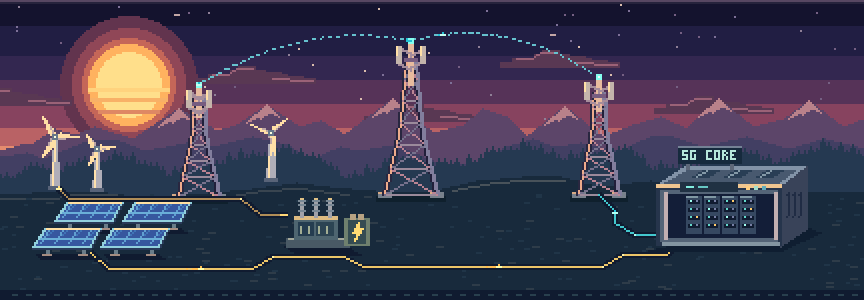
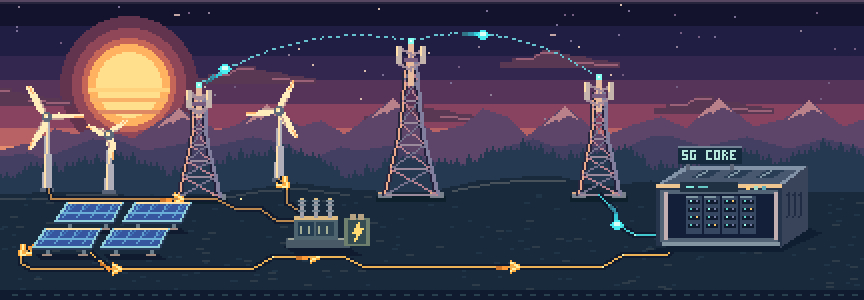
Make wind, power and 5G packet movement visible on small screens

diff --git a/docs/sw.js b/docs/sw.js
@@ -1,8 +1,8 @@
 // A fresh version is stamped by the daily deployment workflow.
-const VERSION = 'imon-world-art-v23';
+const VERSION = 'imon-world-art-v24';
 const SCOPE = self.registration.scope;
 const CACHE = VERSION + ':' + SCOPE;
-const FILES = ['scene-gallery.css','scene-gallery.js','art/scene-atlas.webp','art/destination-signs.png','art/course-valley.webp','course-world.css','data/ai-news.json','handheld.css','handheld.js','gridworks/panels.css','gridworks/console.css','lab-form-engineering.js','learning-modules.js','topic-check.js','./','index.html','style.css','studio.css','lesson-controls.js','arcade/','arcade/index.html','arcade/games.css','arcade/games.js','arcade/play.js','meshlit/','hyperl/','project-downloads.css','player-card.css','player-card.js','app.js','world.js','art/neon-coast.webp','art/waterfall-valley.webp','art/twilight-lake.webp','art/neon-forest.webp','weather.js','hail.js','weather-icons.js','experience.js','experience.css','sound-mixer.js','sound-mixer.css','local-context.js','ambient.js','home.css','study-nav.css','catalog-filter.js','arcade/puzzles/index.html','arcade/puzzles/puzzles.css','arcade/puzzles/puzzles.js','guide/index.html','guide/book.css','guide/panel-1.webp','guide/panel-2.webp','guide/panel-3.webp','watch/index.html','watch/player.css','watch/player.js','watch/video.js','art/coastal-boardwalk.webp','art/jungle-camp.webp','exams/index.html','exams/exam.css','exams/cases.js','exams/exam.js','field-audio.js','audio.js','arcade.js','arcade-sprites.js','arcade.css','ludo.js','ludo.css','puzzle.js','puzzle.css','slots.js','slots.css','racer.js','racer.css','quiz.js','quiz.css','news.js','news.css','orbs.js','orbs.css','art/orbs.svg','github-stats.js','github-stats.css','data/github-stats.json','world-map.js','world-map-ui.js','world-map.css','command-palette.js','command-palette-ui.js','command-palette.css','site-header.css','site-nav.js','achievements.js','achievements-ui.js','achievements.css','art/world-countries.json','auth.js','auth.css','auth-callback.html','login.html','privacy.html','privacy.css','sitemap.xml','pixel-art.js','pixel-art.css','nes.css','lab.js','lab.css','lab-output.js','lab-quiz.js','lab-quiz-ui.js','lab.html','lab-curriculum.js','lab-notes.js','lab-layout.css','lab-chapters.js','lab-feedback.js','lab-reward.js','lab-progress.js','lab-lookup.js','lab-preferred.js','ai-lab.js','ai-lab-ui.js','ai-lab.css','ai-lab.html','ai-lab.webmanifest','ai-lab-chapters.js','ai-api.js','ai-sql.js','data/ai-course.json','circuits.js','circuits-ui.js','circuits-chapters.js','circuits.css','circuits.html','data/circuits-course.json','logo.js','pixel-type.js','pixel-display.js','pixel-display.css','wordmark.css','data/lab-curriculum.json','data/news.json','data/science.json','data/quiz.json','data/quiz-bank.json','gridworks/','gridworks/index.html','gridworks/engine.js','gridworks/view.js','gridworks/story.js','gridworks/globe.js','gridworks/globe-renderer.js','gridworks/globe.css','gridworks/style.css','tools/','tools/index.html','tools/style.css','tools/tools.js','site-services.js','site-choices.js','site-public.js','site-public.css','quests.js','quests.css','quests.html','sitemap.html','fonts/silkscreen-regular.ttf','courses.html','progress.html','leaderboard.html','systems.html','systems.css','art/tower-grid.gif','art/tower-grid.png','art/lab-systems.webp','systems-ui.js','systems-models.js','mastery.js','learning-results.js','data/exercism-license.txt','data/mdn-license.txt','course-quiz.js','learning-art.js','tools/library.js','art/learning-meadow.webp','art/lab-code.webp','art/lab-ai.webp','art/lab-circuits.webp','data/course-index.json','llms.txt','.well-known/agents.json','icon.svg','manifest.webmanifest','fonts/press-start-2p.ttf','fonts/mulish-regular.ttf','fonts/mulish-extra-bold.ttf'];
+const FILES = ['scene-gallery.css','scene-gallery.js','art/scene-atlas.webp','art/destination-signs.png','art/course-valley.webp','course-world.css','data/ai-news.json','handheld.css','handheld.js','gridworks/panels.css','gridworks/console.css','lab-form-engineering.js','learning-modules.js','topic-check.js','./','index.html','style.css','studio.css','lesson-controls.js','arcade/','arcade/index.html','arcade/games.css','arcade/games.js','arcade/play.js','meshlit/','hyperl/','project-downloads.css','player-card.css','player-card.js','app.js','world.js','art/neon-coast.webp','art/waterfall-valley.webp','art/twilight-lake.webp','art/neon-forest.webp','weather.js','hail.js','weather-icons.js','experience.js','experience.css','sound-mixer.js','sound-mixer.css','local-context.js','ambient.js','home.css','study-nav.css','catalog-filter.js','arcade/puzzles/index.html','arcade/puzzles/puzzles.css','arcade/puzzles/puzzles.js','guide/index.html','guide/book.css','guide/panel-1.webp','guide/panel-2.webp','guide/panel-3.webp','watch/index.html','watch/player.css','watch/player.js','watch/video.js','art/coastal-boardwalk.webp','art/jungle-camp.webp','exams/index.html','exams/exam.css','exams/cases.js','exams/exam.js','field-audio.js','audio.js','arcade.js','arcade-sprites.js','arcade.css','ludo.js','ludo.css','puzzle.js','puzzle.css','slots.js','slots.css','racer.js','racer.css','quiz.js','quiz.css','news.js','news.css','orbs.js','orbs.css','art/orbs.svg','github-stats.js','github-stats.css','data/github-stats.json','world-map.js','world-map-ui.js','world-map.css','command-palette.js','command-palette-ui.js','command-palette.css','site-header.css','site-nav.js','achievements.js','achievements-ui.js','achievements.css','art/world-countries.json','auth.js','auth.css','auth-callback.html','login.html','privacy.html','privacy.css','sitemap.xml','pixel-art.js','pixel-art.css','nes.css','lab.js','lab.css','lab-output.js','lab-quiz.js','lab-quiz-ui.js','lab.html','lab-curriculum.js','lab-notes.js','lab-layout.css','lab-chapters.js','lab-feedback.js','lab-reward.js','lab-progress.js','lab-lookup.js','lab-preferred.js','ai-lab.js','ai-lab-ui.js','ai-lab.css','ai-lab.html','ai-lab.webmanifest','ai-lab-chapters.js','ai-api.js','ai-sql.js','data/ai-course.json','circuits.js','circuits-ui.js','circuits-chapters.js','circuits.css','circuits.html','data/circuits-course.json','logo.js','pixel-type.js','pixel-display.js','pixel-display.css','wordmark.css','data/lab-curriculum.json','data/news.json','data/science.json','data/quiz.json','data/quiz-bank.json','gridworks/','gridworks/index.html','gridworks/engine.js','gridworks/view.js','gridworks/story.js','gridworks/globe.js','gridworks/globe-renderer.js','gridworks/globe.css','gridworks/style.css','tools/','tools/index.html','tools/style.css','tools/tools.js','site-services.js','site-choices.js','site-public.js','site-public.css','quests.js','quests.css','quests.html','sitemap.html','fonts/silkscreen-regular.ttf','courses.html','progress.html','leaderboard.html','systems.html','systems.css','systems-scene.js','art/tower-grid.gif','art/tower-grid.png','art/lab-systems.webp','systems-ui.js','systems-models.js','mastery.js','learning-results.js','data/exercism-license.txt','data/mdn-license.txt','course-quiz.js','learning-art.js','tools/library.js','art/learning-meadow.webp','art/lab-code.webp','art/lab-ai.webp','art/lab-circuits.webp','data/course-index.json','llms.txt','.well-known/agents.json','icon.svg','manifest.webmanifest','fonts/press-start-2p.ttf','fonts/mulish-regular.ttf','fonts/mulish-extra-bold.ttf'];
 self.addEventListener('install', event => { event.waitUntil(caches.open(CACHE).then(cache => cache.addAll(FILES.map(file => new URL(file,SCOPE).href))).then(() => self.skipWaiting())); });
 self.addEventListener('activate', event => {
   event.waitUntil((async () => {

diff --git a/docs/systems.html b/docs/systems.html
@@ -11,6 +11,7 @@
   <link rel="stylesheet" href="study-nav.css">
   <link rel="stylesheet" href="systems.css">
   <script type="module" src="systems-ui.js"></script>
+  <script type="module" src="systems-scene.js"></script>
   <script type="module" src="mastery.js"></script>
   <script type="module" src="course-quiz.js"></script>
 </head>
@@ -32,12 +33,19 @@
           document.getElementById('lab-gallery').open = false;
         }
       </script>
-      <picture class="grid-panorama">
+      <picture class="grid-panorama" id="tower-panorama">
         <source media="(prefers-reduced-motion: reduce)" srcset="art/tower-grid.png">
         <img src="art/tower-grid.gif" width="864" height="300" alt="Pixel-art 5G towers, solar panels, wind turbines and a data center connected to a city grid.">
       </picture>
       <div class="grid-launch">
         <a class="grid-start" href="#workbench">Try labs <span aria-hidden="true">→</span></a>
+        <div class="grid-caption">
+          <ul class="grid-key" aria-label="Grid legend">
+            <li>Power flow</li>
+            <li>Radio &amp; data traffic</li>
+          </ul>
+          <button class="studio-control" id="tower-motion" type="button" aria-controls="tower-panorama" hidden>Pause animation</button>
+        </div>
         <p>Model a network in Systems Lab, or <a href="gridworks/">build a city in Gridworks</a>.</p>
       </div>
       <nav class="lab-types" aria-label="Lab types">

diff --git a/docs/systems.css b/docs/systems.css
@@ -65,8 +65,48 @@
   filter: brightness(1.08);
 }
 
+.grid-caption {
+  display: flex;
+  flex-wrap: wrap;
+  align-items: center;
+  justify-content: center;
+  gap: .4rem 1rem;
+  margin-top: .75rem;
+}
+
+.grid-caption button {
+  min-height: 44px;
+}
+
+.grid-key {
+  display: flex;
+  flex-wrap: wrap;
+  justify-content: center;
+  gap: .3rem 1rem;
+  margin: 0;
+  padding: 0;
+  list-style: none;
+  font-size: .88rem;
+}
+
+.grid-key li {
+  display: inline-flex;
+  align-items: center;
+  gap: .4rem;
+}
+
+.grid-key li::before {
+  content: '';
+  width: 1rem;
+  border-top: 3px solid #ffdc65;
+}
+
+.grid-key li + li::before {
+  border-top: 3px dashed #72efff;
+}
+
 .grid-launch p {
-  margin: .75rem 0;
+  margin: .6rem 0 0;
   color: #cedbe7;
 }
 

diff --git a/docs/systems-scene.js b/docs/systems-scene.js
@@ -1,0 +1,19 @@
+const control = document.getElementById('tower-motion');
+const poster = document.querySelector('#tower-panorama source');
+const preference = matchMedia(poster.media);
+let manualPause = null;
+
+function updateLabel() {
+  const paused = manualPause ?? preference.matches;
+  control.textContent = paused ? 'Play animation' : 'Pause animation';
+}
+
+control.addEventListener('click', () => {
+  manualPause = !(manualPause ?? preference.matches);
+  poster.media = manualPause ? 'all' : 'not all';
+  updateLabel();
+});
+
+preference.addEventListener('change', updateLabel);
+updateLabel();
+control.hidden = false;
